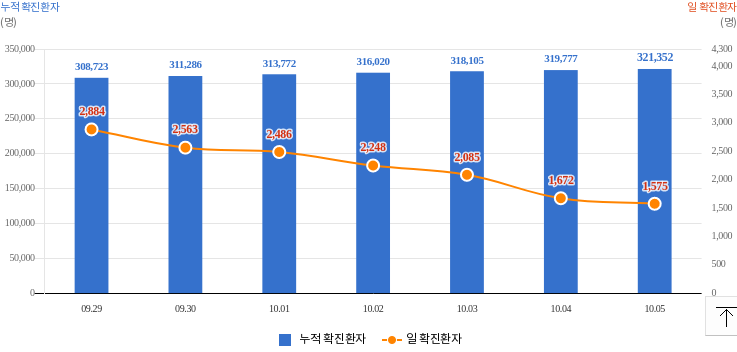
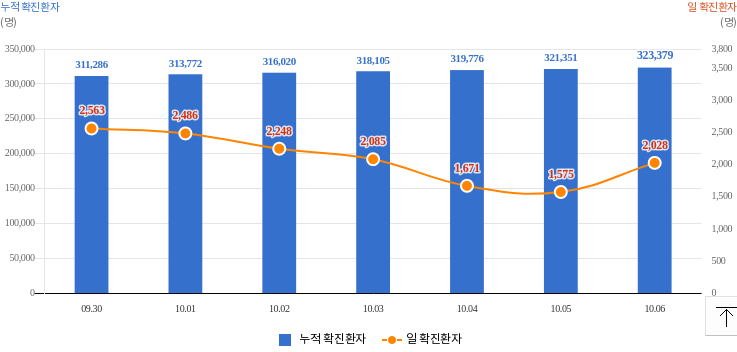
Run crawler and update current data

diff --git a/data.js b/data.js
@@ -7,7 +7,7 @@ var 검사중 = '1,759';
 var 검사결과 = '456,627';
 var 자가격리자 = '420';
 var 거리두기단계 = '사회적 거리두기  3단계 시행 : 2021.10.4.(월) 0시 ~ 10.17.(일) 24시';
-var 국내발생 = '1,557';
-var 해외발생 = '18';
-var 합계 = '1575';
+var 국내발생 = '2,002';
+var 해외발생 = '26';
+var 합계 = '2028';
 var data = [];
